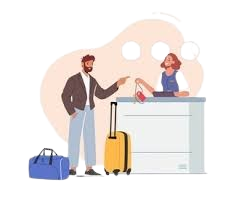
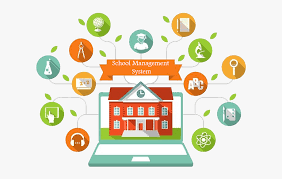
updated images

diff --git a/index.html b/index.html
@@ -119,7 +119,7 @@
         <h1 class="sub-title">My Services</h1>
         <div class="services-list">
           <div class="service-item">
-            <i class="fa-solid fa-plane-departure"></i>
+            <i class="fa-solid fa-desktop"></i>
             <h2>School_Management</h2>
             <p>
               A Multi School Management System is a web-based platform designed to efficiently manage multiple schools under one system, 